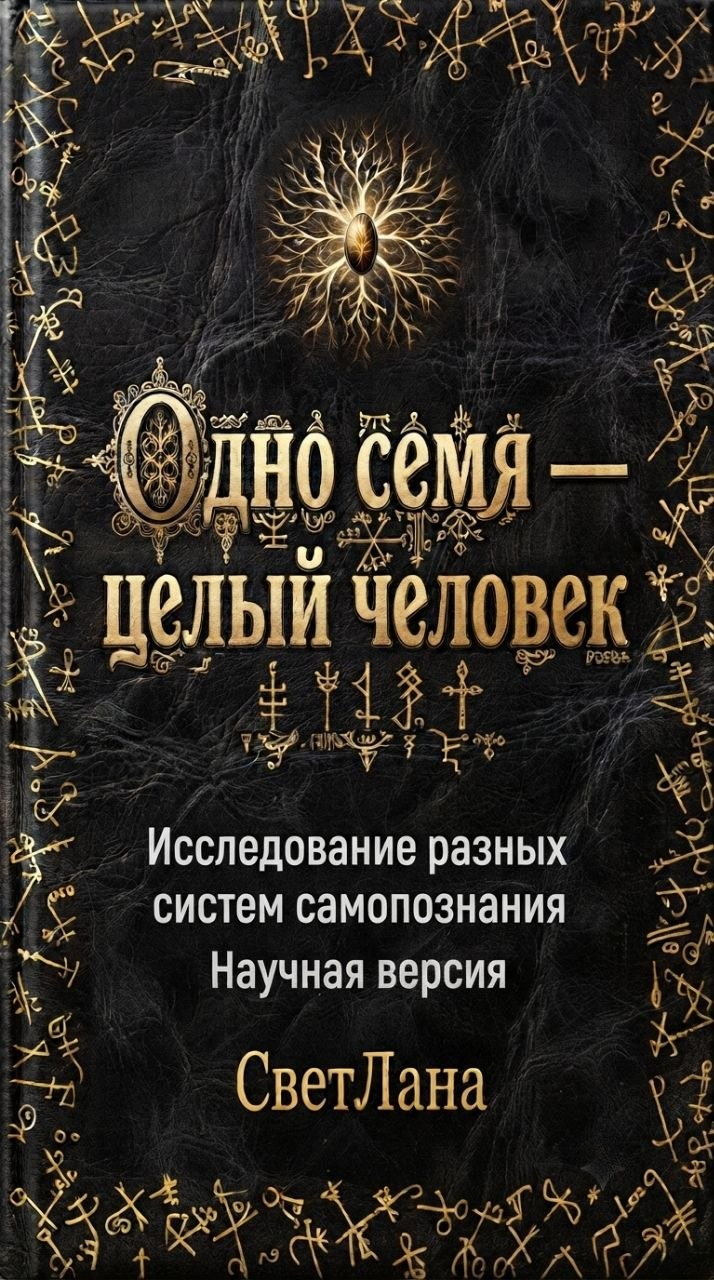
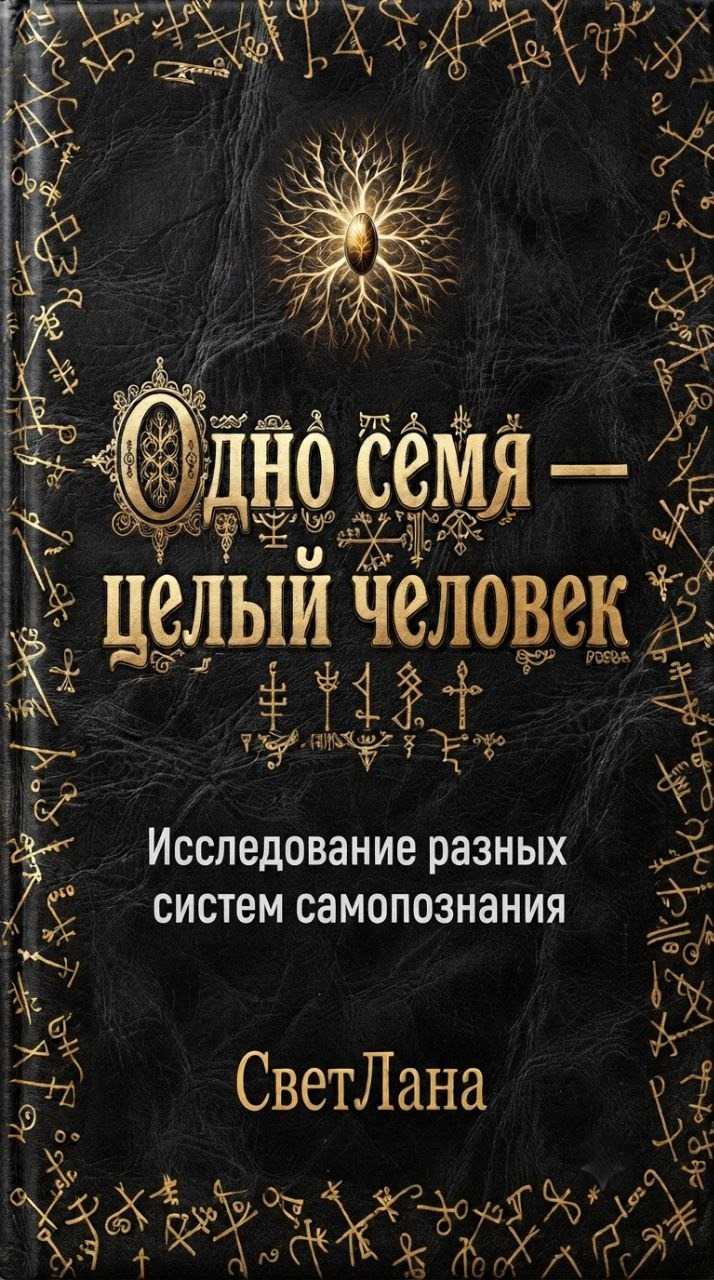
fix(библиотека): обложка «Одно семя — целый человек» без надписи «Научная версия»
Оставлены только название, «Исследование разных систем самопознания» и СветЛана.

diff --git a/public/js/book-reader.js b/public/js/book-reader.js
@@ -30,7 +30,7 @@ const BookReader = (function() {
   let currentBookId = 'dars';
   let currentBookAccess = 'gated'; // 'gated' — по тарифу/покупке, 'free' — открыта всем
   let viewMode = 'library';
-  const BOOKS_VER = '20260731e';   // токен кэша для JSON новых книг
+  const BOOKS_VER = '20260731f';   // токен кэша для JSON новых книг
 
   // Настройки читателя (сохраняются в localStorage)
   const DEFAULTS = { fontSize: 16, theme: 'dark', lineHeight: 1.75 };
